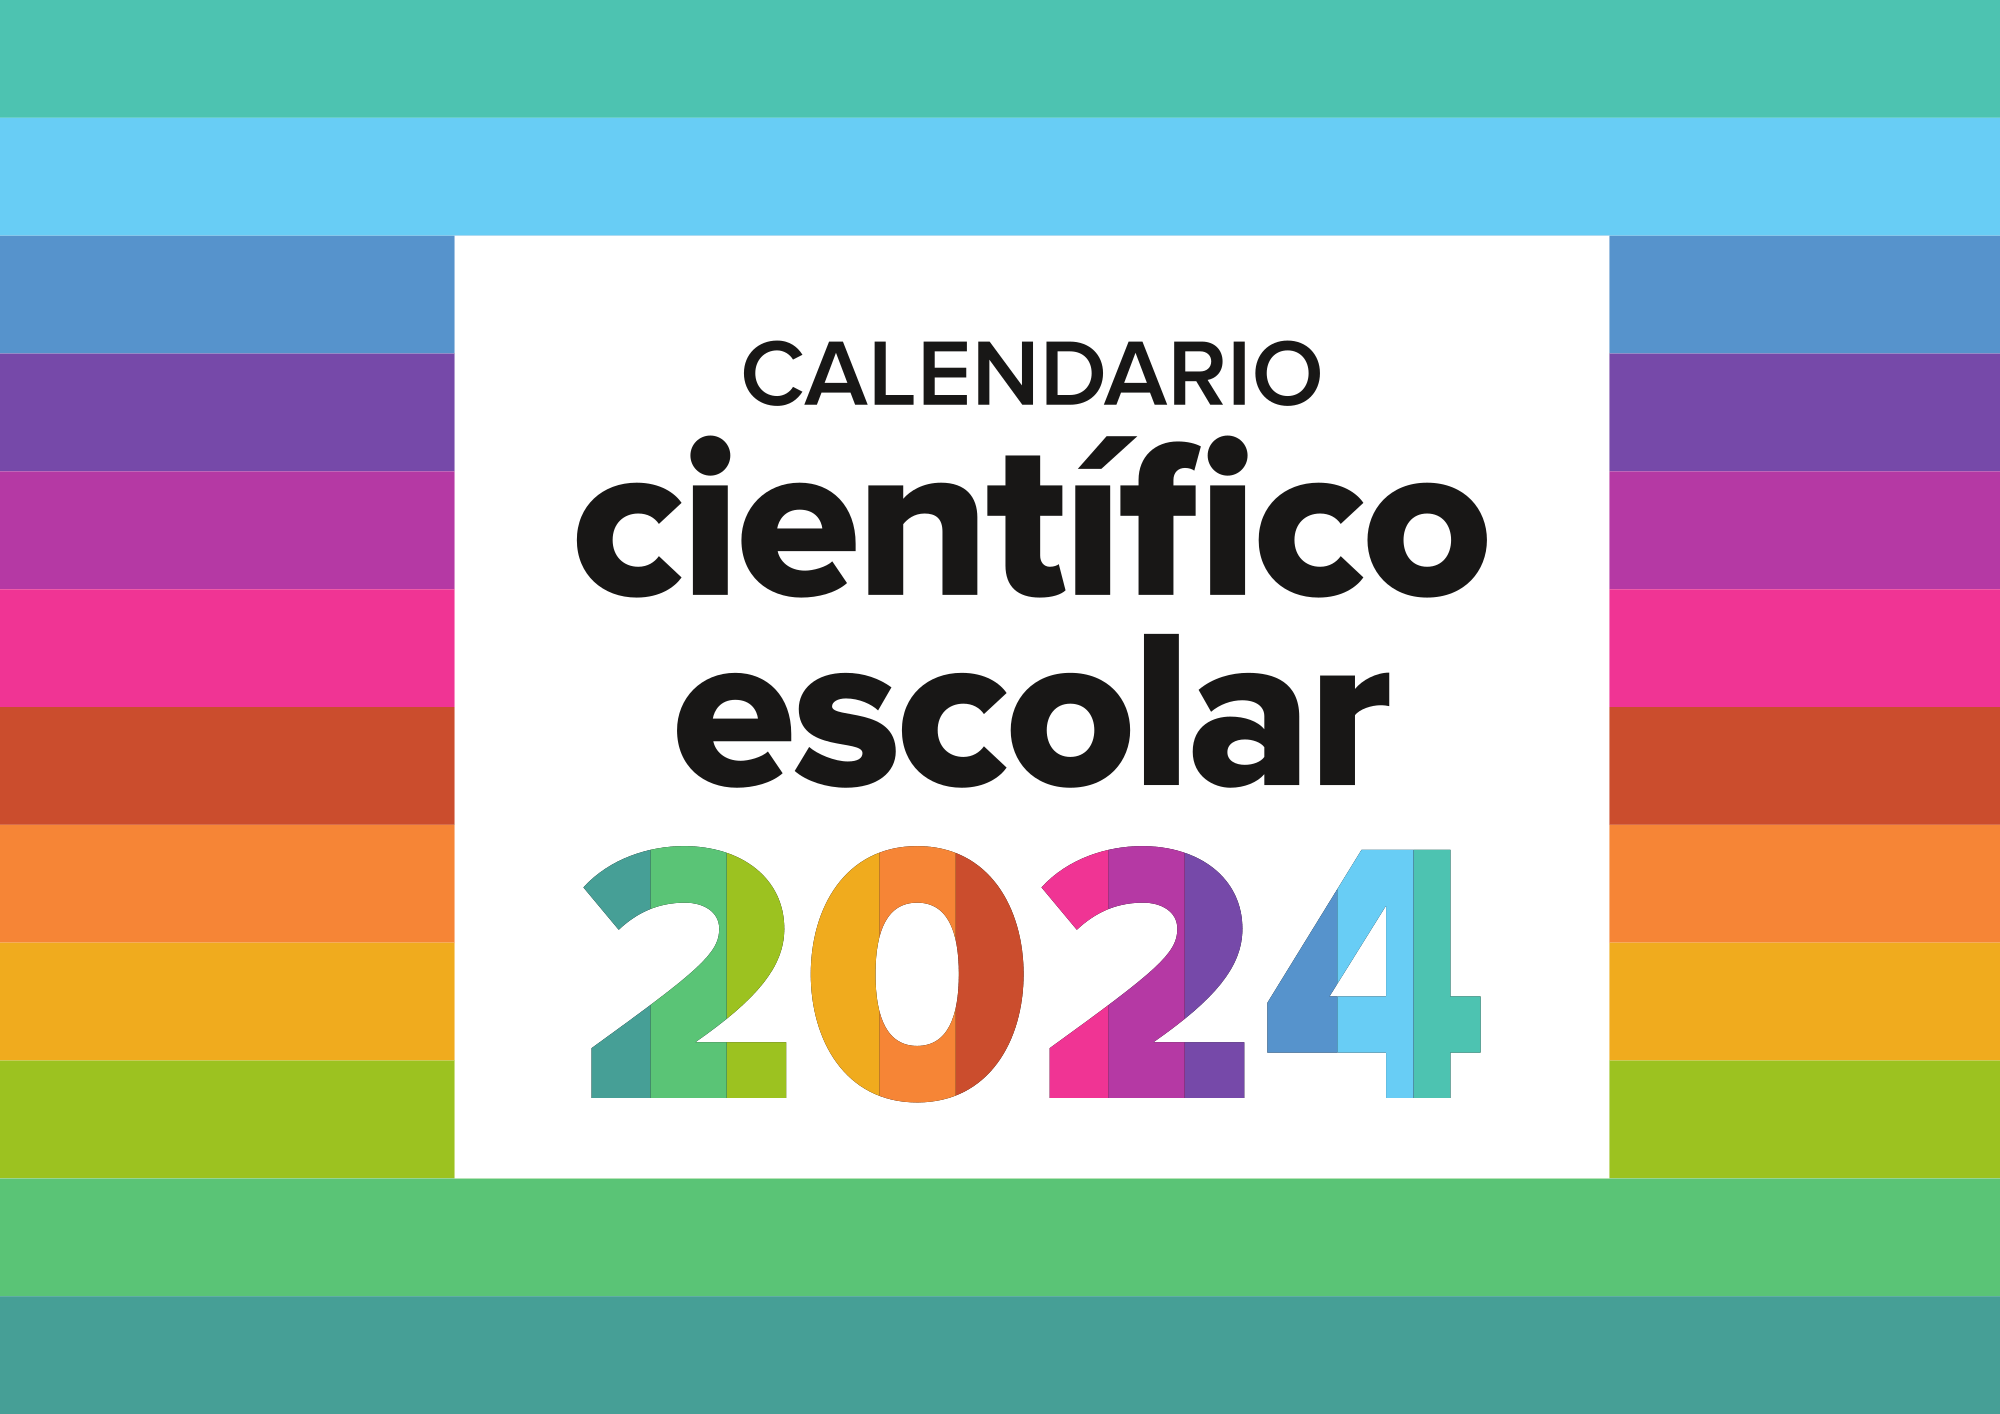
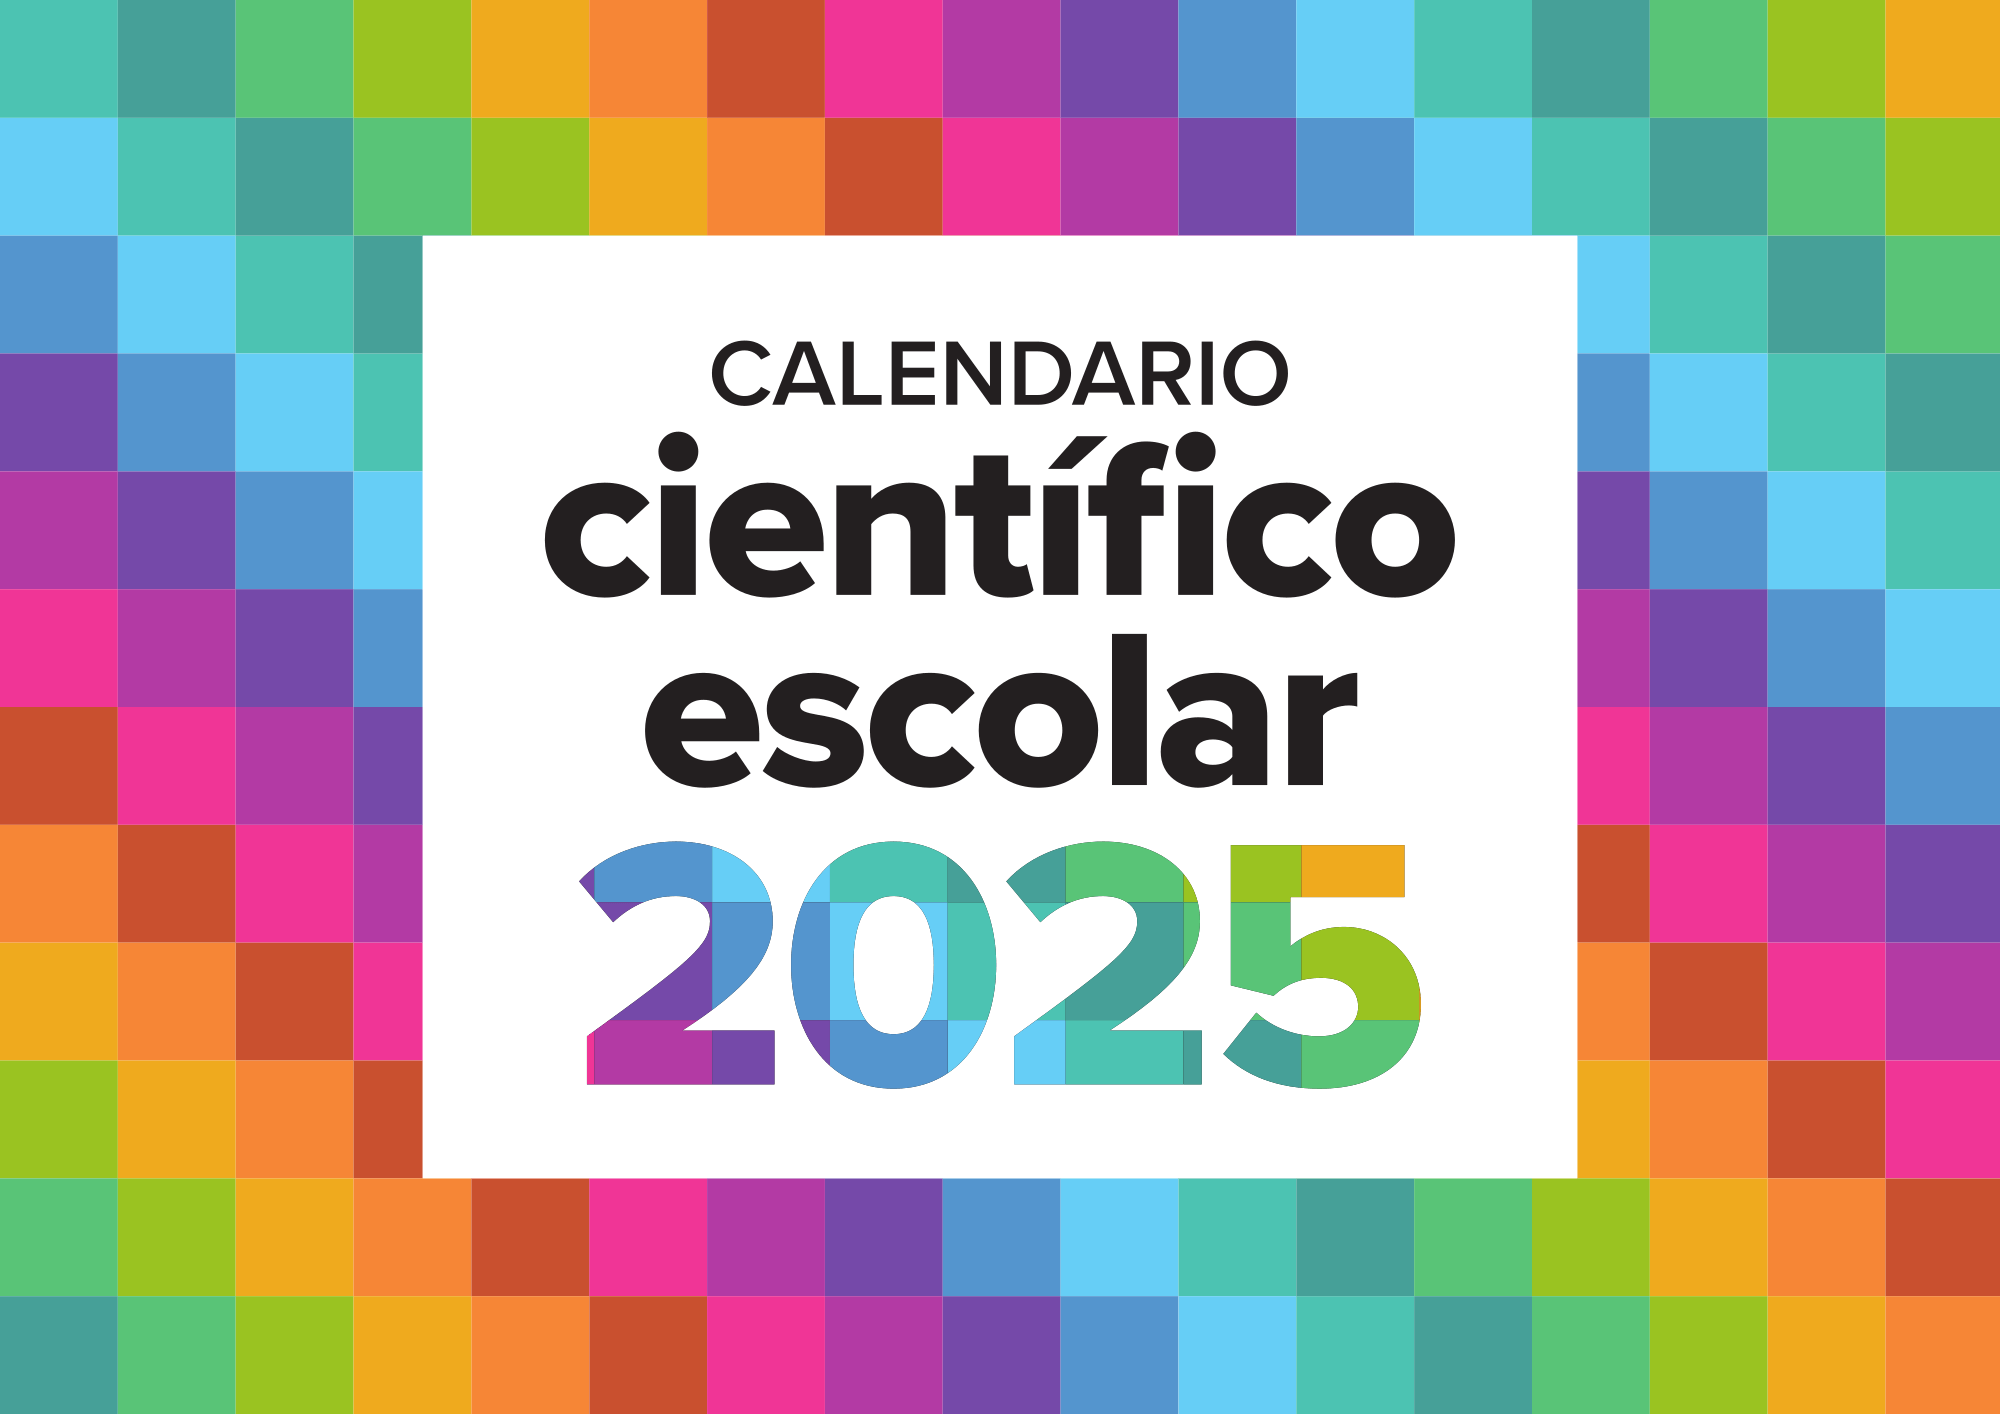
Actualizar el enlace y la fecha del Calendario Científico Escolar en la sección de novedades y en el post correspondiente

diff --git a/content/es/post/calendario-cientifico-escolar/index.md b/content/es/post/calendario-cientifico-escolar/index.md
@@ -3,7 +3,7 @@ title: Calendario Científico Escolar
 subtitle: 365 efemérides de aniversarios científicos y tecnológicos
 summary: 365 efemérides de aniversarios científicos y tecnológicos.
 breadcrumbs: ["blog"]
-date: "2024-02-01T00:00:00Z"
+date: "2025-01-15T00:00:00Z"
 authors:
 - rodrigo-alcaraz-de-la-osa
 tags:
@@ -13,34 +13,34 @@ categories:
 - Física
 - Química
 image:
-  placement: 3  
+  placement: 3
   caption: "[http://www.igm.ule-csic.es/calendario-cientifico](http://www.igm.ule-csic.es/calendario-cientifico)"
 links:
 - icon_pack: fas
   icon:
   name: 🗓 Formato PDF
-  url: https://digital.csic.es/bitstream/10261/341343/7/Calendario%20Científico%20Escolar%202024.pdf
+  url: https://digital.csic.es/bitstream/10261/374821/3/es%20Calendario%20cientifico%20escolar%202025.pdf
 - icon_pack: fas
   icon:
   name: ♿ Formato accesible
-  url: https://digital.csic.es/bitstream/10261/341343/8/Formato%20accesible_CAS.docx
+  url: https://digital.csic.es/bitstream/10261/374821/8/es%20Formato%20accesible.docx
 - icon_pack: fas
   icon:
   name: 📅 iCal
-  url: https://digital.csic.es/bitstream/10261/341343/9/castellano.ical
+  url: https://digital.csic.es/bitstream/10261/374821/7/es%20ICAL.ical
 - icon_pack: fas
   icon:
   name: 🗒 Propuesta de actividades
-  url: https://digital.csic.es/bitstream/10261/341343/6/Propuesta%20de%20actividades%202024.pdf
+  url: https://digital.csic.es/bitstream/10261/374821/6/es%20Propuesta%20de%20actividades.pdf
 ---
 
 El [Instituto de Ganadería de Montaña (IGM)](http://www.igm.ule-csic.es), centro mixto del [Consejo Superior de Investigaciones Científicas (CSIC)](https://www.csic.es/es) y la [Universidad de León](https://www.unileon.es), impulsa este proyecto, con el que se pretende acercar la cultura científica a la población más joven y ofrecer referentes cercanos, diversos y actuales de la ciencia.
 
 El [***Calendario Científico Escolar***](https://eventociencia.es/calendario-cientifico-escolar/) está dirigido principalmente al alumnado de educación primaria y secundaria obligatoria. Cada día se ha recogido un **aniversario científico o tecnológico** como, por ejemplo, nacimientos de personas de estos ámbitos o conmemoraciones de hallazgos destacables.
 
-Además, el calendario se acompaña de [propuestas con **actividades**](https://digital.csic.es/bitstream/10261/341343/6/Propuesta%20de%20actividades%202024.pdf) adaptables a distintas asignaturas y niveles de educación reglada y no reglada. Cada edición ofrece contenidos renovados y traducidos a varios idiomas.
+Además, el calendario se acompaña de una [propuesta con **actividades**](https://digital.csic.es/bitstream/10261/374821/6/es%20Propuesta%20de%20actividades.pdf) adaptables a distintas asignaturas y niveles de educación reglada y no reglada. Cada edición ofrece contenidos renovados y traducidos a varios idiomas.
 
-También puedes suscribirte al [**calendario online**](https://digital.csic.es/bitstream/10261/341343/9/castellano.ical) para que los aniversarios aparezcan directamente en tu aplicación de calendario.
+También puedes suscribirte al [**calendario online**](https://digital.csic.es/bitstream/10261/374821/7/es%20ICAL.ical) para que los aniversarios aparezcan directamente en tu aplicación de calendario.
 
 {{% callout note %}}
 Más información y acceso a ediciones anteriores en la [**página oficial del proyecto**](https://eventociencia.es/calendario-cientifico-escolar/).

diff --git a/content/es/home/novedades.md b/content/es/home/novedades.md
@@ -130,6 +130,6 @@ content:
     link:
       #icon: graduation-cap
       #icon_pack: fas
-      text: "RadicalZ"
-      url: 'blog/2024/10/28/radicalz/'
+      text: "Calendario Científico Escolar"
+      url: 'blog/2025/01/15/calendario-cientifico-escolar/'
 ---
